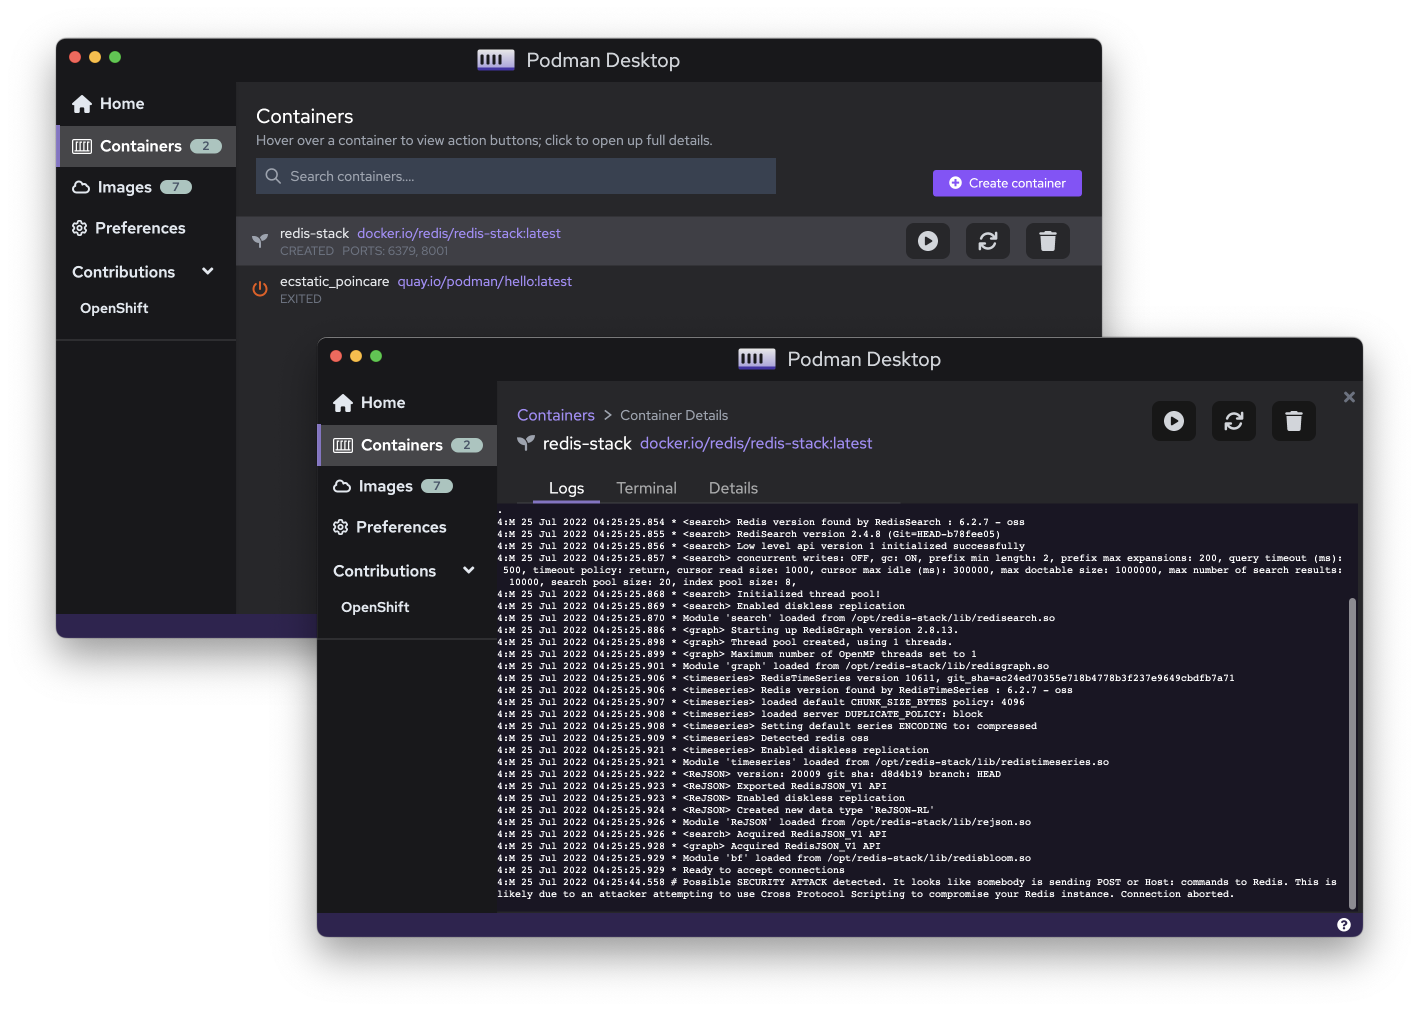
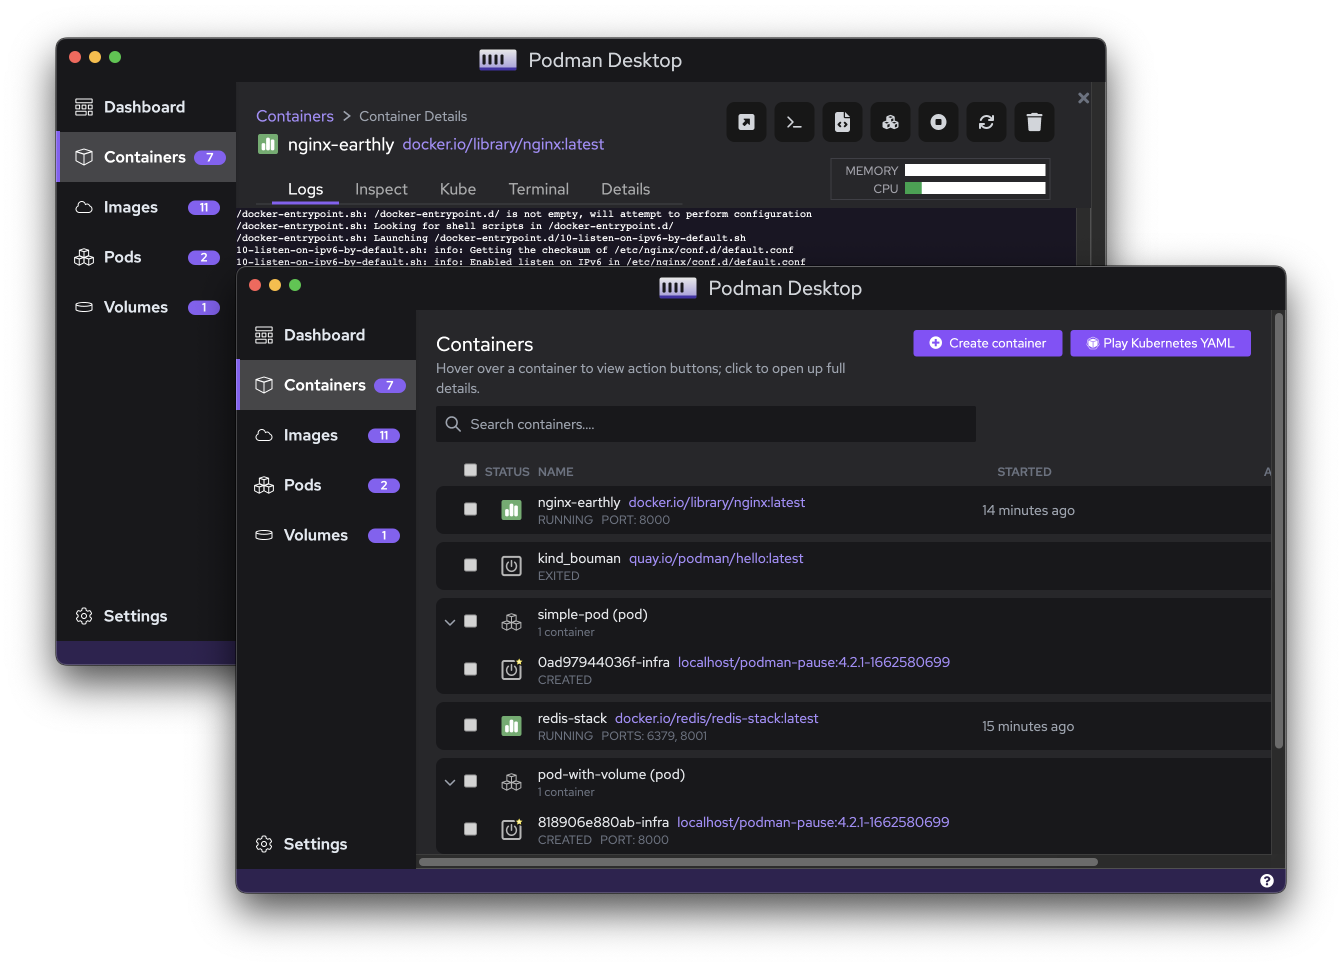
website: updated images with latest screenshots for the Features section (#662)
* website: updated images with latest screenshots for the Features section

* website: added section for pods in features page

* website: format and lint fix

* website: updated tray icon image to match with theme

diff --git a/website/src/pages/features/index.tsx b/website/src/pages/features/index.tsx
@@ -132,23 +132,47 @@ function FeatureManageResources() {
   );
 }
 
+function FeatureManagePods() {
+  return (
+    <div>
+      <section className="text-gray-600 bg-zinc-200 dark:bg-zinc-800 dark:text-gray-400 body-font">
+        <div className="container mx-auto flex px-5 py-24 md:flex-row flex-col items-center">
+          <div className="lg:flex-grow md:w-1/2 lg:pr-24 md:pr-16 flex flex-col md:items-start md:text-left mb-16 md:mb-0 items-center text-center">
+            <h1 className="title-font sm:text-4xl text-3xl mb-4 font-medium text-gray-900 dark:text-white">
+              Create and start Pods with Podman
+              <br className="hidden lg:inline-block" />
+            </h1>
+            <p className="leading-relaxed list-item dark:text-gray-200 text-gray-800">
+              Select containers to run as a Pod.
+            </p>
+            <p className="leading-relaxed list-item dark:text-gray-200 text-gray-800">
+              Play Kubernetes YAML locally without Kubernetes.
+            </p>
+            <p className="leading-relaxed list-item dark:text-gray-200 text-gray-800">
+              Generate Kubernetes YAML from Pods.
+            </p>
+          </div>
+          <div className="lg:w-5/6 md:w-4/5 w-5/6 flex flex:col gap-10">
+            <ThemedImage
+              className="py-4"
+              alt="Manage Pods"
+              sources={{
+                light: useBaseUrl('img/features/manage-pods.png'),
+                dark: useBaseUrl('img/features/manage-pods.png'),
+              }}
+            />
+          </div>
+        </div>
+      </section>
+    </div>
+  );
+}
+
 function FeatureDDExtensions() {
   return (
-    <section className="text-gray-600 bg-zinc-200 dark:bg-zinc-800 dark:text-gray-400 body-font">
+    <section className="text-gray-600 bg-zinc-100 dark:bg-zinc-900 dark:text-gray-400 body-font">
       <div className="container mx-auto flex px-5 py-24 md:flex-row flex-col items-center">
-        <div className="lg:flex-grow md:w-1/2 lg:pr-24 md:pr-16 flex flex-col md:items-start md:text-left mb-16 md:mb-0 items-center text-center">
-          <h1 className="title-font sm:text-4xl text-3xl mb-4 font-medium text-gray-900 dark:text-white">
-            Import Docker Desktop extensions
-          </h1>
-
-          <p className="leading-relaxed list-item dark:text-gray-200 text-gray-800">
-            Specify OCI image of a Docker Desktop extension to import it.
-          </p>
-          <p className="leading-relaxed list-item dark:text-gray-200 text-gray-800">
-            For example: security scanner or deploy to OpenShift extensions.
-          </p>
-        </div>
-        <div className="w-5/6 mb-10 md:mb-0">
+        <div className="lg:w-5/6 md:w-4/5 w-5/6 flex flex:col gap-10">
           <ThemedImage
             className="py-4"
             alt="Pull image and manage registries"
@@ -157,6 +181,18 @@ function FeatureDDExtensions() {
               dark: useBaseUrl('img/ddextensions/dd-support.png'),
             }}
           />
+        </div>
+        <div className="lg:flex-grow md:w-1/2 lg:pl-24 md:pl-16 flex flex-col md:items-start md:text-left items-center text-center">
+          <h1 className="title-font sm:text-4xl text-3xl mb-4 font-medium text-gray-900 dark:text-white">
+            Import Docker Desktop extensions
+          </h1>
+          <br className="hidden lg:inline-block" />
+          <p className="leading-relaxed list-item dark:text-gray-200 text-gray-800">
+            Specify OCI image of a Docker Desktop extension to import it.
+          </p>
+          <p className="leading-relaxed list-item dark:text-gray-200 text-gray-800">
+            For example: security scanner or deploy to OpenShift extensions.
+          </p>
         </div>
       </div>
     </section>
@@ -172,6 +208,7 @@ export default function Home(): JSX.Element {
       <FeatureManageImages />
       <FeatureManagementFromTrayIcon />
       <FeatureManageResources />
+      <FeatureManagePods />
       <FeatureDDExtensions />
     </Layout>
   );
